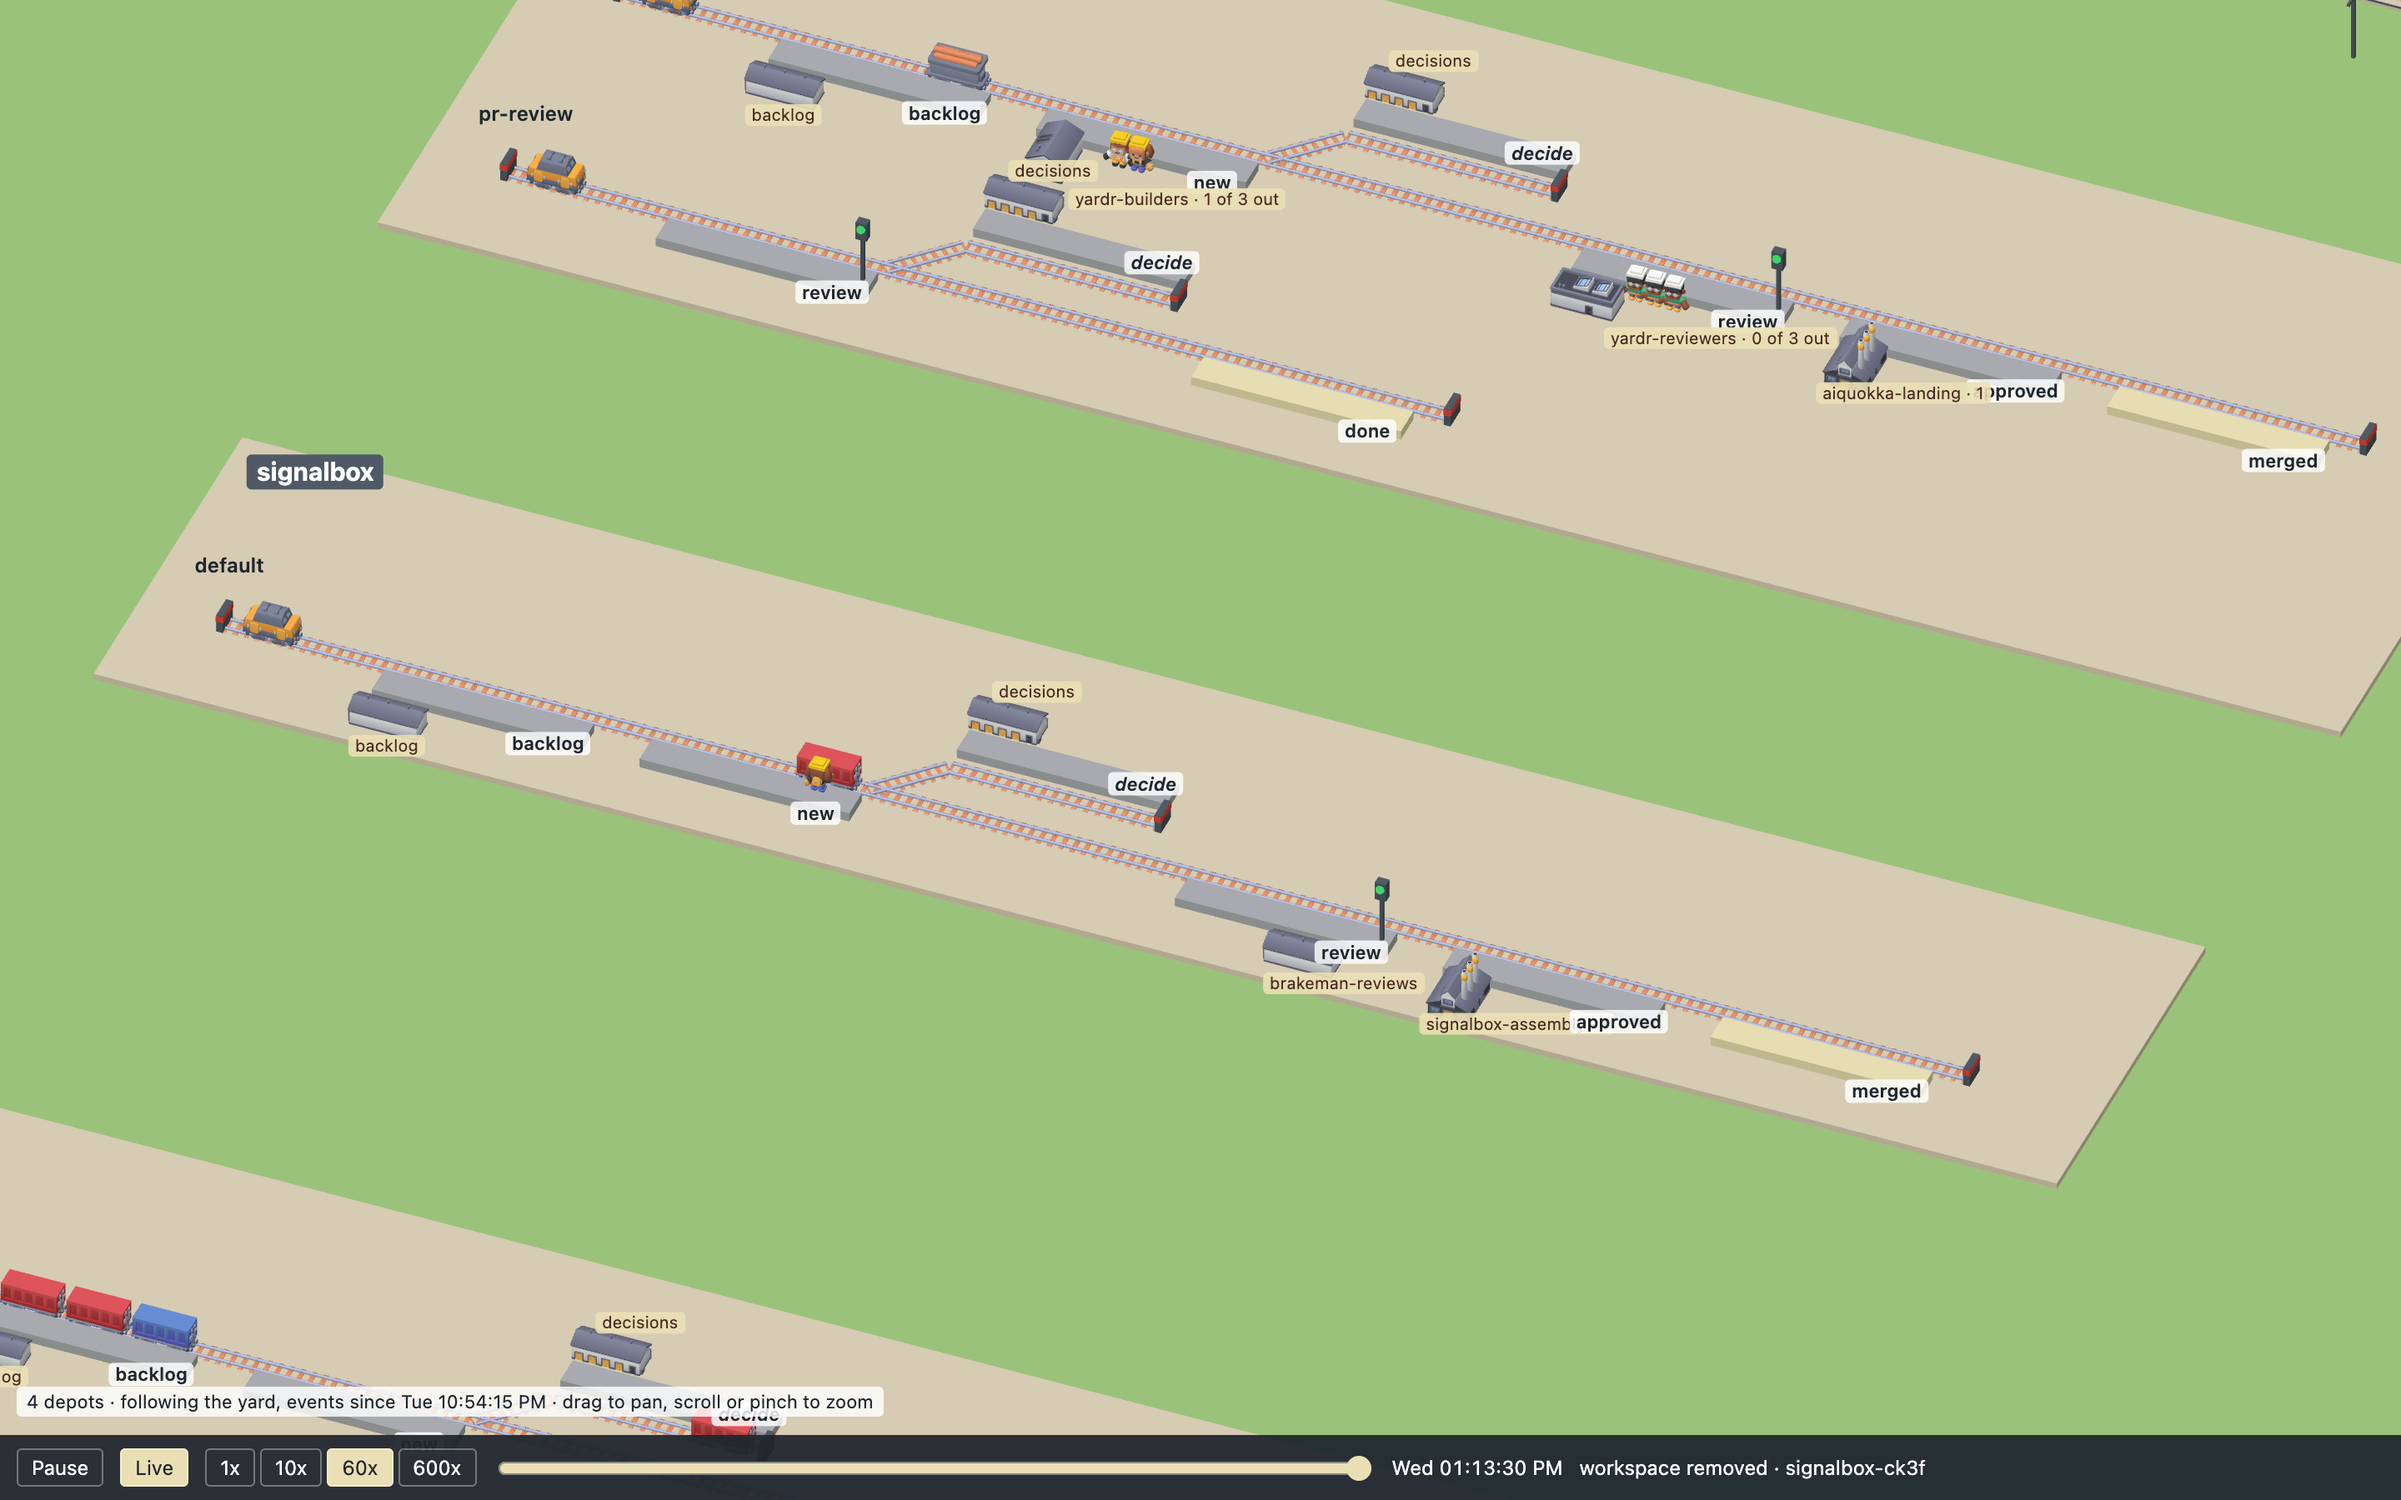
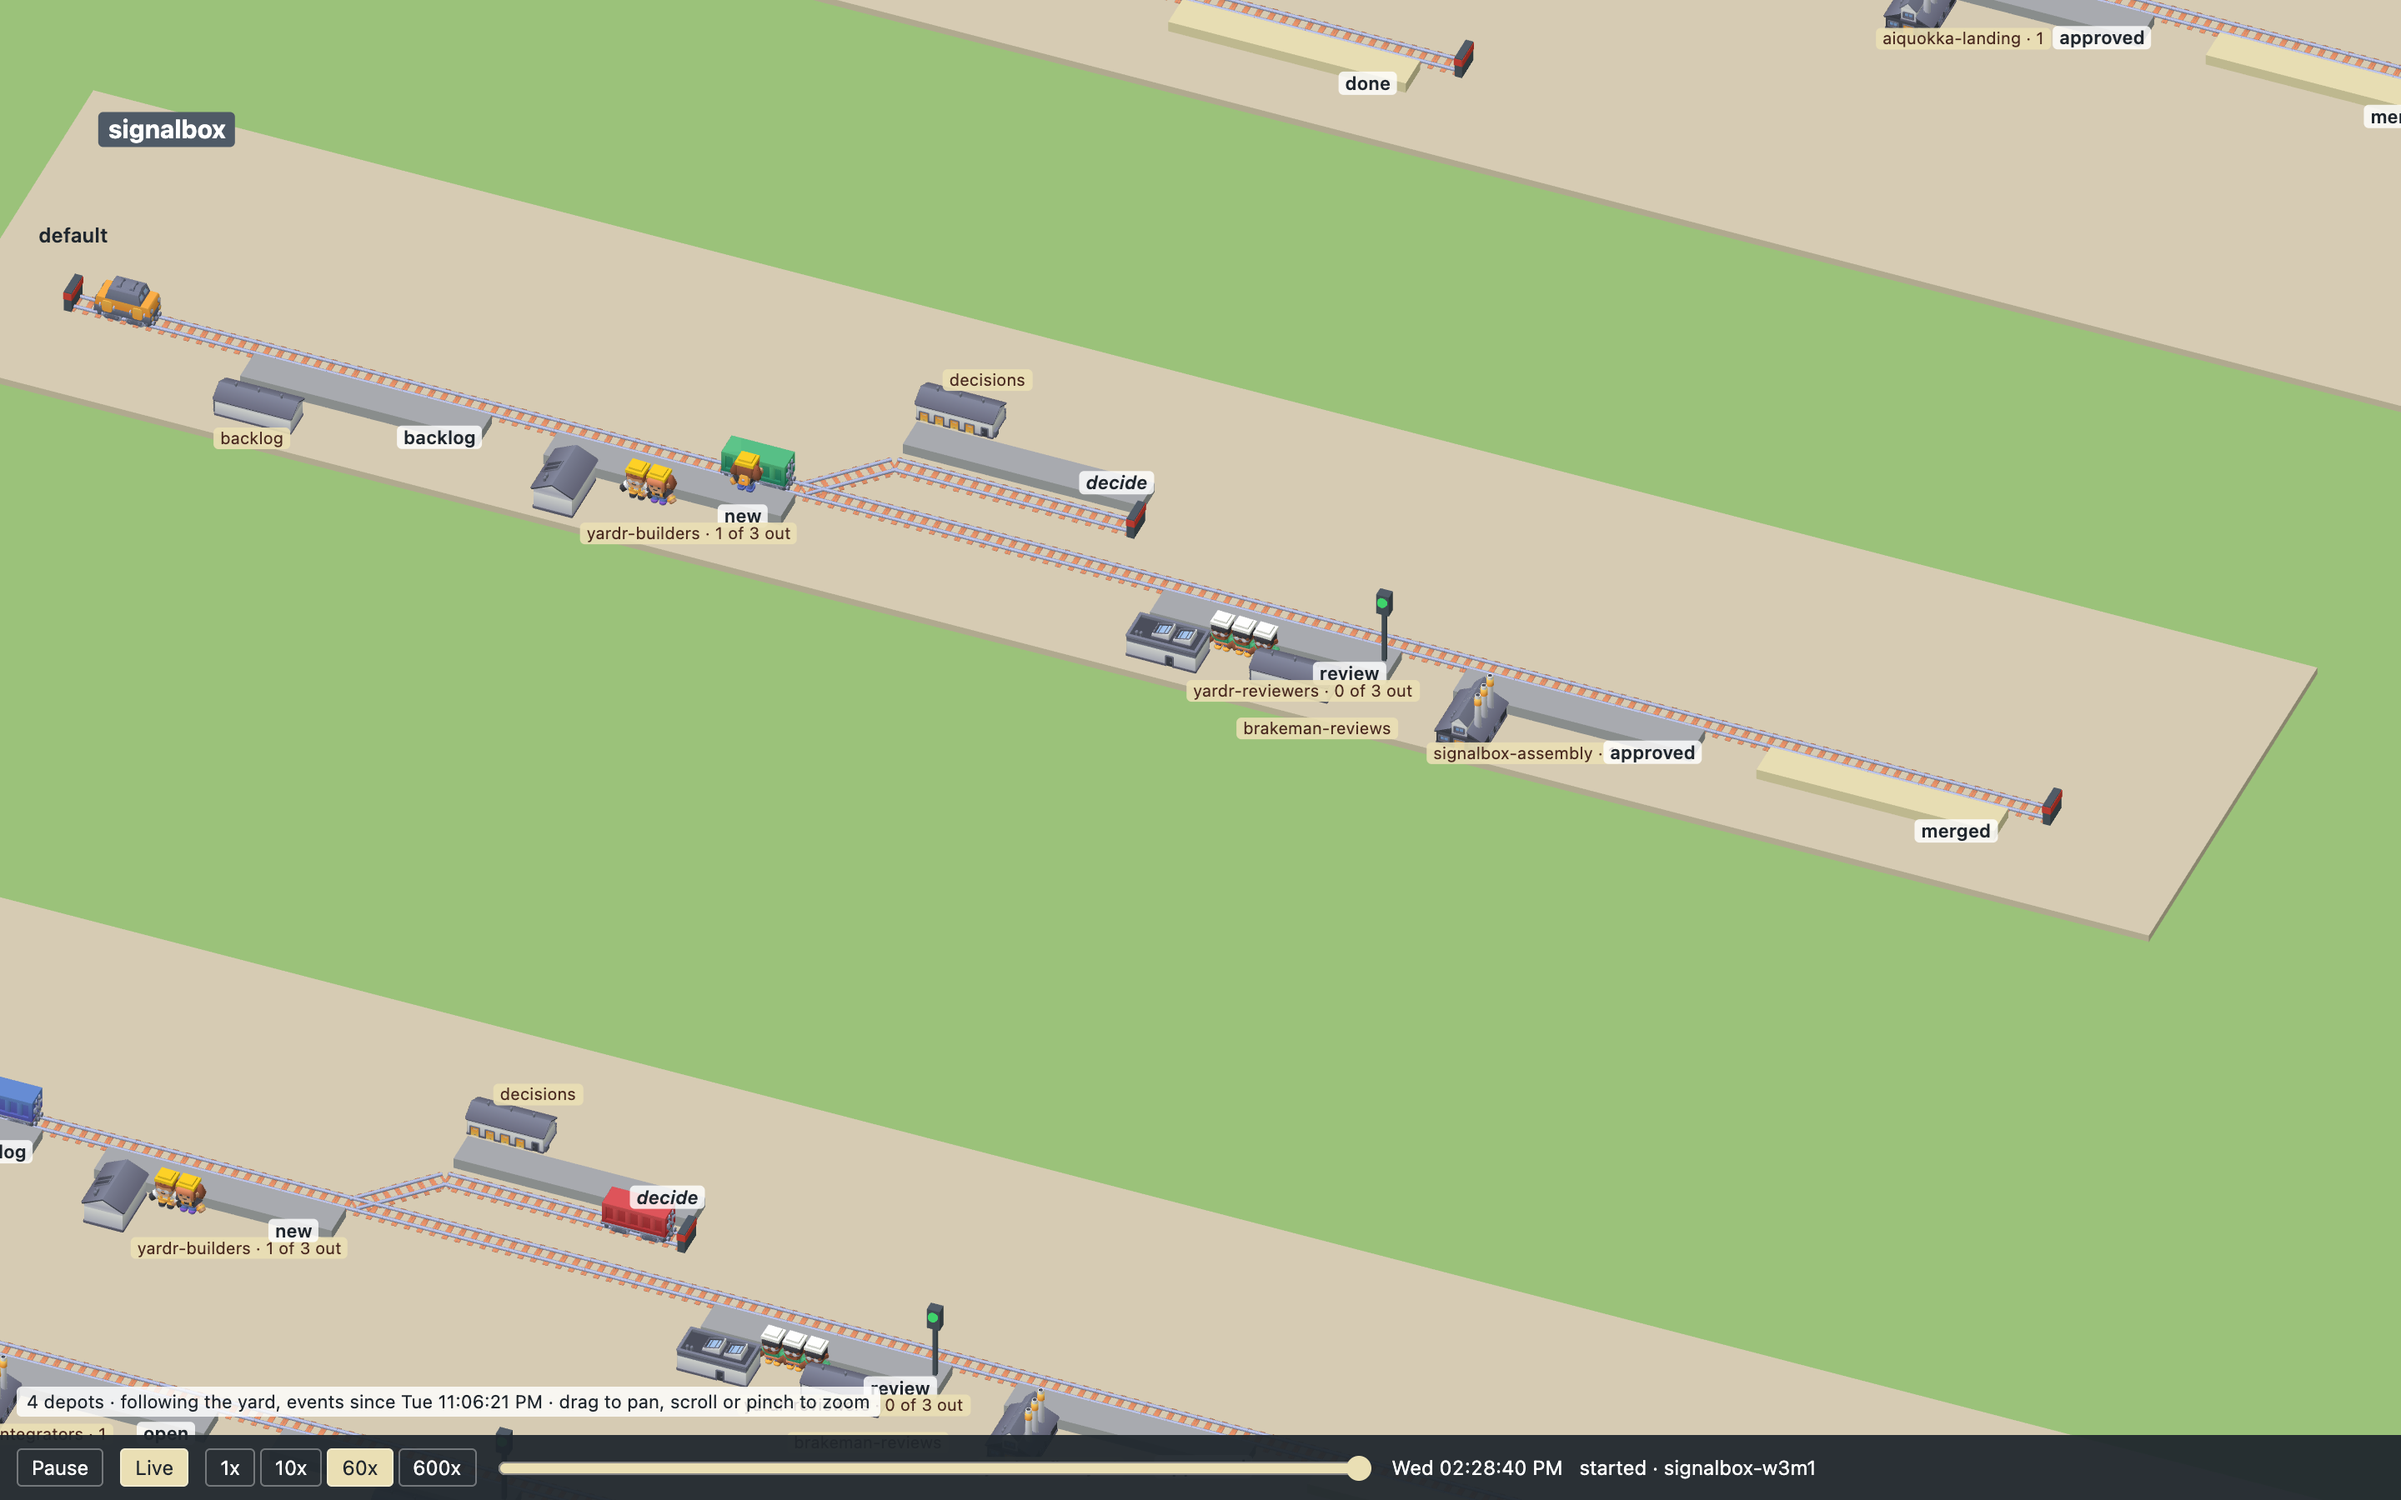
docs: the README's pictures retaken with a hut and an office on every board
yard.png is the built page on the committed snapshot; replay.png the same at
1x, the shunter coupled to a wagon at yardr's new and a reviewer leaving
yardr's own office; live.png the serve script following the yard, a builder
out of signalbox's hut at signalbox's new. Sizes as before.

diff --git a/README.md b/README.md
@@ -86,7 +86,7 @@ come behind an engine of the peer's, which goes home when they have gone.
 One train runs each way at a time, and the next waits out of sight. A hook
 is a flash of the wire.
 
-![Mid-replay: the shunter of yardr's default track pulling a wagon from new to review, two builders at work at new, and a reviewer on the way down from the office to the wagon](docs/replay.png)
+![Mid-replay: the shunter of yardr's default track coupled to a wagon at new to pull it to review, two builders from yardr's hut at work at new, and a reviewer leaving yardr's office for the wagon; signalbox's hut and office above, with the same signs](docs/replay.png)
 
 ## Following a yard as it runs
 
@@ -131,7 +131,7 @@ machine's on a Tailscale net, for a phone on the same net.
 Without the script (`npm run dev`, or `dist/` on any static server) nothing
 of this is there, and the page is the committed snapshot and its replay.
 
-![The page following this yard, closer in: Live on the bar, two builders by the door of their hut and the third at work on a wagon at signalbox's new](docs/live.png)
+![The page following this yard, closer in: Live on the bar, two builders by the door of signalbox's hut and the third at work on a wagon at signalbox's new; yardr's hut below says the same 1 of 3 out, with two at its door](docs/live.png)
 
 ## Where things are
 
